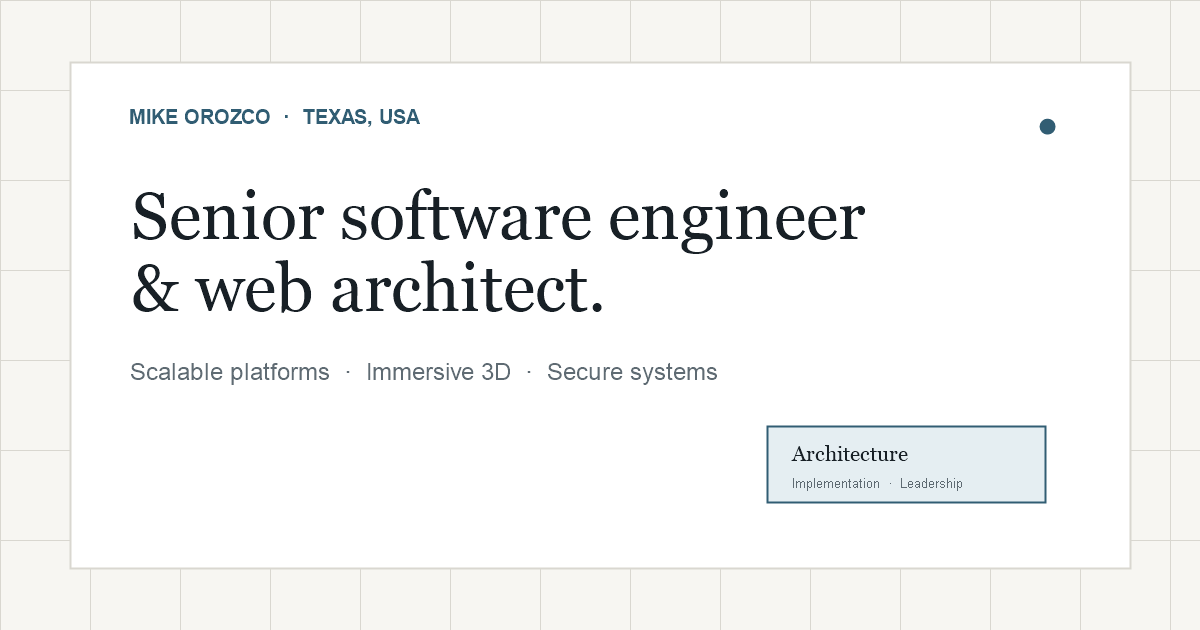
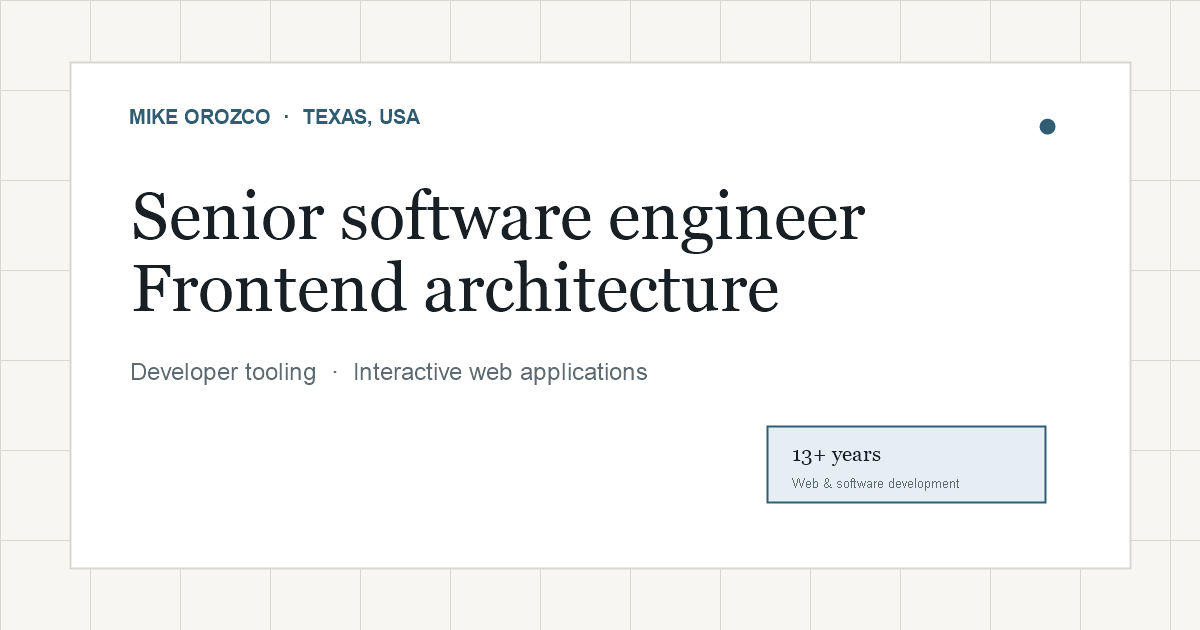
Align portfolio copy with resume and CV (#19)

Changed region(s): [[0.0925, 0.4222, 0.6475, 0.5127], [0.0925, 0.573, 0.6167, 0.6032], [0.6475, 0.6937, 0.8017, 0.7841]]

diff --git a/pages/index.vue b/pages/index.vue
@@ -5,30 +5,30 @@ import { defaultDescription, defaultSocialImage, defaultTitle, siteUrl } from '~
 const featuredProjects = caseStudies.filter((project) => project.featured);
 
 const proofPoints = [
-  { value: '12+', label: 'Years building production systems' },
-  { value: '50+', label: 'Applications and platforms delivered' },
+  { value: '13+', label: 'Years in web and software development' },
+  { value: '50+', label: 'Custom client solutions delivered' },
 ];
 
 const capabilities = [
   {
     number: '01',
-    title: 'Architecture & system design',
-    description: 'Modular frontend systems, event-driven services, integration boundaries, technical standards, and pragmatic tradeoff analysis.',
+    title: 'Frontend architecture & authoring tools',
+    description: 'Reusable browser runtimes and Vue authoring interfaces that let content teams configure product tours and sales demos.',
   },
   {
     number: '02',
-    title: 'Immersive web engineering',
-    description: 'High-performance product experiences built with Three.js, Babylon.js, WebGL, Vue, React, and TypeScript.',
+    title: 'Interactive web applications',
+    description: 'Product tours and virtual sales demos built with Three.js, Babylon.js, Vue, React, and TypeScript.',
   },
   {
     number: '03',
-    title: 'Backend, cloud & delivery',
-    description: 'Node.js and Python services, REST and GraphQL APIs, SQL and NoSQL data, Azure, Docker, Cloudflare, and CI/CD.',
+    title: 'Backend, cloud & performance',
+    description: 'Node.js APIs, data integrations, Azure migrations, Cloudflare delivery, Docker, and CI/CD.',
   },
   {
     number: '04',
-    title: 'Security & technical leadership',
-    description: 'Vulnerability remediation, secure design, code review, developer mentorship, documentation, and workflow improvement.',
+    title: 'Developer tooling & technical leadership',
+    description: 'Codex plugins for engineering workflows and a local MCP usage-reporting prototype, alongside code review, security remediation, and mentorship.',
   },
 ];
 
@@ -50,7 +50,7 @@ useSeoMeta({
   ogImage: defaultSocialImage,
   ogImageWidth: 1200,
   ogImageHeight: 630,
-  ogImageAlt: 'Mike Orozco, Senior Software Engineer and Web Architect',
+  ogImageAlt: 'Mike Orozco, Senior Software Engineer in Frontend Architecture and Developer Tooling',
   twitterCard: 'summary_large_image',
   twitterTitle: defaultTitle,
   twitterDescription: defaultDescription,
@@ -74,9 +74,9 @@ useHead({
           '@id': `${siteUrl}/#person`,
           name: 'Mike Orozco',
           url: siteUrl,
-          jobTitle: 'Senior Software Engineer and Web Architect',
+          jobTitle: 'Senior Software Engineer | Frontend Architecture & Developer Tooling',
           homeLocation: { '@type': 'Place', name: 'Texas, USA' },
-          knowsAbout: ['Web architecture', 'TypeScript', 'Immersive web', 'Three.js', 'Babylon.js', 'Application security'],
+          knowsAbout: ['Frontend architecture', 'Vue authoring tools', 'TypeScript', 'Immersive web', 'Developer tooling', 'Application security'],
           sameAs: ['https://github.com/notmike101', 'https://www.linkedin.com/in/mikeoroz'],
         },
       }),
@@ -91,9 +91,9 @@ useHead({
       <div class="page-container">
         <div class="hero-copy">
           <p class="eyebrow" style="margin: 0;">Mike Orozco &bullet; Texas, USA</p>
-          <h1 class="display-title">Senior software engineer &amp; web architect.</h1>
+          <h1 class="display-title">Senior software engineer.</h1>
           <p class="lede">
-            I design scalable web platforms, immersive 3D experiences, and secure systems &mdash; combining hands-on engineering with architecture and technical leadership.
+            I build frontend systems, Vue authoring tools, and developer tools for product teams. My work spans interactive 3D experiences, client software, performance, and technical leadership.
           </p>
           <div class="hero-actions">
             <a class="button-primary" href="#work">View past work</a>
@@ -116,9 +116,9 @@ useHead({
       <div class="page-container">
         <header>
           <h3>Experience &amp; recognition</h3>
-          <h2 id="experience-title" class="section-title">Architecture stays useful when teams can operate it.</h2>
+          <h2 id="experience-title" class="section-title">Enterprise products, client software, and web performance</h2>
           <p class="lede">
-            My work spans enterprise engineering, independent consulting, frontend performance, cloud migration, security, and team enablement.
+            I work across implementation, architecture, developer tools, security, and technical guidance, with hands-on ownership from design through maintenance.
           </p>
         </header>
         <div class="experience-copy">
@@ -127,21 +127,28 @@ useHead({
               <span>2022—Present</span>
               <div>
                 <h3>Senior Software Engineer, Immersive Technologies</h3>
-                <p>Architecture and implementation for enterprise 3D platforms, shared tooling, secure delivery practices, and developer mentorship.</p>
+                <p>Led development of the 3D Product Tour, built Vue authoring and configuration tools, and collaborated on the shared runtime. Developed a team Codex plugin marketplace and a local MCP usage-reporting prototype.</p>
               </div>
             </article>
             <article>
               <span>2013—Present</span>
               <div>
                 <h3>Independent Web &amp; Software Engineer</h3>
-                <p>More than 50 production systems delivered across consulting and product engagements, frequently with end-to-end technical ownership.</p>
+                <p>Delivered 50+ custom web and software solutions across client engagements, often owning architecture, implementation, deployment, and support.</p>
               </div>
             </article>
             <article>
-              <span>Recognition</span>
+              <span>2019—2021</span>
               <div>
-                <h3>Achievement and innovation awards</h3>
-                <p>Recognized for leadership on a flagship immersive product platform and foundational technical solutions.</p>
+                <h3>Web Developer, Monrovia Plants</h3>
+                <p>Azure migration improved website response time by approximately 20%. A separate Cloudflare integration reduced average page load times by approximately 30%.</p>
+              </div>
+            </article>
+            <article>
+              <span>2022</span>
+              <div>
+                <h3>Thermo Fisher Scientific awards</h3>
+                <p>Outstanding Achievement for the 3D Product Tour and an Innovation Award for foundational technical solutions.</p>
               </div>
             </article>
           </div>
@@ -153,9 +160,9 @@ useHead({
       <div class="page-container">
         <header>
           <h3>Past work</h3>
-          <h2 id="work-title" class="section-title">Systems built for scale, clarity, and longevity.</h2>
+          <h2 id="work-title" class="section-title">Selected engineering work</h2>
           <p class="lede">
-            A closer look at the engineering decisions behind enterprise platforms and focused open-source tools.
+            The 3D Product Tour at Thermo Fisher Scientific and Pack3D, an open-source desktop optimizer.
           </p>
         </header>
         <ProjectRow
@@ -171,7 +178,7 @@ useHead({
       <div class="page-container">
         <header>
           <h3>Capabilities</h3>
-          <h2 id="capabilities-title" class="section-title">Broad enough to connect the system. Focused enough to improve it.</h2>
+          <h2 id="capabilities-title" class="section-title">What I build and maintain</h2>
         </header>
         <div class="capability-grid">
           <article v-for="capability in capabilities" :key="capability.number">
@@ -186,7 +193,7 @@ useHead({
       <div class="page-container">
         <header>
           <h3>Open source &amp; research</h3>
-          <h2 id="labs-title" class="section-title">Smaller systems, explored in public.</h2>
+          <h2 id="labs-title" class="section-title">Open-source tools and research projects</h2>
         </header>
         <div class="labs-list">
           <article v-for="project in additionalProjects" :key="project.title">
@@ -230,7 +237,7 @@ useHead({
           <h2 id="contact-title" class="section-title">Hiring for a senior role or planning a complex project?</h2>
         </header>
         <div class="contact-copy">
-          <p>Share the role, problem, or system you're working through. I'll respond with the most useful next step.</p>
+          <p>Share the role or project, the current challenge, and what kind of engineering help you need.</p>
           <NuxtLink class="button-primary" to="/contact">Choose a contact path</NuxtLink>
         </div>
       </div>

diff --git a/data/caseStudies.ts b/data/caseStudies.ts
@@ -25,36 +25,34 @@ export interface CaseStudy {
 export const caseStudies: CaseStudy[] = [
   {
     slug: 'immersive-product-platform',
-    title: 'Immersive 3D Product Platform',
-    shortTitle: 'Immersive product platform',
-    summary: 'A reusable architecture for enterprise-scale 3D product experiences across a growing application portfolio.',
-    problem: 'Independent interactive experiences were becoming difficult to scale, maintain, and evolve consistently. The platform needed a modular foundation that could support multiple products, teams, and rendering use cases without turning every delivery into a one-off build.',
-    role: 'Senior Software Engineer, Immersive Technologies — architecture, hands-on implementation, technical standards, security remediation, and developer mentorship.',
+    title: '3D Product Tour Platform',
+    shortTitle: '3D Product Tour',
+    summary: 'Led development of 3D Product Tour, connecting Vue authoring tools and JSON configuration to a shared browser runtime for product tours and sales demos.',
+    problem: 'Product tours and virtual sales demos needed shared rendering and interaction behavior while allowing content teams to create new experiences without a separate engineering build for each one.',
+    role: 'Senior Software Engineer, Immersive Technologies — owned authoring, configuration, and integration work; collaborated with a rendering-focused engineer on the shared runtime, then took on broader maintenance of the core, tours, and sales demos.',
     constraints: [
-      'High-fidelity 3D rendering across browsers and device classes',
-      'Multiple applications with distinct product and design requirements',
-      'Long-lived systems that needed safe extension points and clear ownership',
-      'Enterprise performance, reliability, and security expectations',
+      'Product tours and sales demos had different interfaces but shared runtime needs',
+      'Content editors needed to configure tours without changing application code',
+      'The runtime needed to remain reusable as the application portfolio grew',
     ],
     decisions: [
-      'Separated application concerns into event-driven services and reusable interface fragments.',
-      'Created shared libraries and internal tools to make new experiences faster and more consistent to build.',
-      'Used sandboxed runtime boundaries where independently developed interface behavior needed isolation.',
-      'Established documentation, delivery, and review standards alongside the technical architecture.',
+      'Helped separate shared runtime functionality into an npm package and contributed to the later Babylon.js and TypeScript architecture.',
+      'Built Vue 3 authoring interfaces that produce JSON configurations for tours and sales demos.',
+      'Connected builder-generated configuration to application implementations and shared runtime APIs.',
+      'Used reusable components and event-driven services to separate shared behavior from application-specific interfaces.',
     ],
     outcomes: [
-      'Enabled reusable foundations across multiple immersive applications.',
-      'Supported enterprise deployments serving thousands of concurrent users.',
-      'Reduced duplicated implementation work and improved long-term maintainability.',
-      'Strengthened security practices through remediation of critical application vulnerabilities.',
+      'Supported product tours and virtual sales demos through a shared runtime.',
+      'Enabled content teams to create additional tours without per-tour engineering work.',
+      'Received the Immersive Technologies Outstanding Achievement award for leading development of the 3D Product Tour platform.',
     ],
-    stack: ['TypeScript', 'Vue', 'Three.js', 'Babylon.js', 'Azure'],
+    stack: ['TypeScript', 'Vue', 'Three.js', 'Babylon.js'],
     status: 'Production',
     featured: true,
     publishedAt: '2022-09-01',
     updatedAt: '2026-06-28',
-    seoTitle: 'Immersive 3D Product Platform — Mike Orozco',
-    seoDescription: 'Architecture case study for a reusable enterprise 3D product platform built with TypeScript, Vue, React, Three.js, and Babylon.js.',
+    seoTitle: '3D Product Tour Platform — Mike Orozco',
+    seoDescription: 'How Vue authoring tools and JSON configuration connect to a shared runtime for 3D product tours and sales demos.',
     socialImage: '/images/og-default.png',
     visual: 'platform',
   },
@@ -62,7 +60,7 @@ export const caseStudies: CaseStudy[] = [
     slug: 'pack3d',
     title: 'Pack3D',
     shortTitle: 'Pack3D',
-    summary: 'A Windows desktop application that makes production-grade GLTF and GLB optimization approachable.',
+    summary: 'A Windows desktop application for optimizing GLTF and GLB assets.',
     problem: 'Large 3D assets directly affect load time, bandwidth, and rendering performance, but the optimization toolchain often requires specialized command-line knowledge and repeated manual experimentation.',
     role: 'Creator and maintainer — product definition, desktop architecture, optimization pipeline, interface design, packaging, and releases.',
     constraints: [

diff --git a/pages/contact.vue b/pages/contact.vue
@@ -1,8 +1,8 @@
 <script setup lang="ts">
 import { absoluteUrl, defaultSocialImage, siteUrl } from '~/utils/site';
 
-const title = 'Contact Mike Orozco — Software Engineering & Architecture';
-const description = 'Contact Mike Orozco about senior software engineering opportunities, web architecture, immersive 3D systems, or consulting projects.';
+const title = 'Contact Mike Orozco — Frontend Architecture & Developer Tooling';
+const description = 'Contact Mike Orozco about senior engineering roles or consulting for custom software, SaaS products, web development, and frontend architecture.';
 const canonical = absoluteUrl('/contact');
 
 const emailHref = (subject: string) => `mailto:me@mikeorozco.dev?subject=${encodeURIComponent(subject)}`;
@@ -46,21 +46,21 @@ useHead({
   <div class="page-container contact-page">
     <header class="contact-intro">
       <p class="eyebrow">Contact</p>
-      <h1 class="display-title">Start with the context that matters.</h1>
+      <h1 class="display-title">Contact me about a role or project</h1>
       <p class="lede">
-        Choose the path that best fits the conversation. Both options open a direct email with a useful subject line—no form account or data collection involved.
+        Choose hiring or consulting below. Each link opens an email with a subject line already filled in.
       </p>
     </header>
 
     <section class="contact-options" aria-label="Contact options">
       <article>
         <h2>Hiring opportunity</h2>
-        <p>For senior engineering, architecture, immersive-web, platform, or technical leadership roles.</p>
+        <p>For senior engineering roles involving frontend architecture, interactive web applications, developer tooling, or technical leadership.</p>
         <a class="button-primary" :href="emailHref('Senior engineering opportunity')">Discuss an opportunity</a>
       </article>
       <article>
         <h2>Consulting project</h2>
-        <p>For architecture reviews, complex web platforms, 3D experiences, security work, or focused implementation.</p>
+        <p>For custom software, SaaS products, web development, architecture reviews, or focused implementation.</p>
         <a class="button-primary" :href="emailHref('Consulting project inquiry')">Discuss a project</a>
       </article>
     </section>

diff --git a/pages/work/[slug].vue b/pages/work/[slug].vue
@@ -88,8 +88,7 @@ const relatedProjects = caseStudies.filter((item) => item.slug !== project.slug)
 
     <section class="page-container case-section case-overview" aria-labelledby="overview-title">
       <div>
-        <p class="eyebrow">Overview</p>
-        <h2 id="overview-title" class="section-title">The system behind the outcome.</h2>
+        <h2 id="overview-title" class="section-title">Overview</h2>
       </div>
       <div class="case-prose">
         <h3>Problem</h3>
@@ -108,8 +107,7 @@ const relatedProjects = caseStudies.filter((item) => item.slug !== project.slug)
     <section class="case-detail-section" aria-labelledby="constraints-title">
       <div class="page-container case-section">
         <div>
-          <p class="eyebrow">Constraints</p>
-          <h2 id="constraints-title" class="section-title">What the architecture had to respect.</h2>
+          <h2 id="constraints-title" class="section-title">Constraints</h2>
         </div>
         <ol class="numbered-list">
           <li v-for="(constraint, index) in project.constraints" :key="constraint">
@@ -122,8 +120,7 @@ const relatedProjects = caseStudies.filter((item) => item.slug !== project.slug)
 
     <section class="page-container case-section" aria-labelledby="decisions-title">
       <div>
-        <p class="eyebrow">Decisions</p>
-        <h2 id="decisions-title" class="section-title">How the system was shaped.</h2>
+        <h2 id="decisions-title" class="section-title">Decisions</h2>
       </div>
       <ol class="numbered-list">
         <li v-for="(decision, index) in project.decisions" :key="decision">
@@ -136,8 +133,7 @@ const relatedProjects = caseStudies.filter((item) => item.slug !== project.slug)
     <section class="case-detail-section" aria-labelledby="outcomes-title">
       <div class="page-container case-section">
         <div>
-          <p class="eyebrow">Outcomes</p>
-          <h2 id="outcomes-title" class="section-title">What changed as a result.</h2>
+          <h2 id="outcomes-title" class="section-title">Outcomes</h2>
         </div>
         <ol class="numbered-list outcomes-list">
           <li v-for="(outcome, index) in project.outcomes" :key="outcome">

diff --git a/utils/site.ts b/utils/site.ts
@@ -1,7 +1,7 @@
 export const siteUrl = 'https://mikeorozco.dev';
 export const siteName = 'Mike Orozco';
-export const defaultTitle = 'Mike Orozco — Senior Software Engineer & Web Architect';
-export const defaultDescription = 'Senior software engineer and web architect designing scalable web platforms, immersive 3D experiences, and secure systems.';
+export const defaultTitle = 'Mike Orozco — Senior Software Engineer | Frontend Architecture & Developer Tooling';
+export const defaultDescription = 'Senior software engineer with 13+ years of web and software development experience in frontend architecture, Vue authoring tools, interactive applications, and developer tooling.';
 export const defaultSocialImage = `${siteUrl}/images/og-default.png`;
 
 export const absoluteUrl = (path: string) => new URL(path, siteUrl).toString();

diff --git a/components/SiteFooter.vue b/components/SiteFooter.vue
@@ -3,7 +3,7 @@
     <div class="page-container footer-grid">
       <div>
         <p class="footer-name">Mike Orozco</p>
-        <p class="muted">Senior Software Engineer &amp; Web Architect</p>
+        <p class="muted">Senior Software Engineer | Frontend Architecture &amp; Developer Tooling</p>
       </div>
       <nav aria-label="Footer navigation" class="footer-links">
         <NuxtLink to="/#work">Past work</NuxtLink>
